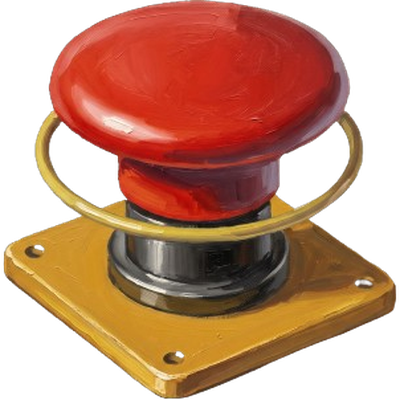
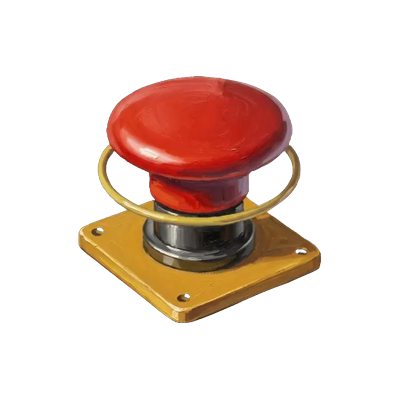
Hero: уменьшить кнопку стопа и убрать рывок при смене кадра.
E-stop ~38% кадра как огнетушитель; promote без пересчёта tip и с паузой в 2 кадра.

diff --git a/app-restructure.js b/app-restructure.js
@@ -44,12 +44,13 @@ window.addEventListener('resize', () => {
   ];
   const curr = el.querySelector('.hero__safety-curr');
   const next = el.querySelector('.hero__safety-next');
-  const DUR = 1400;
+  const DUR = 1500;
   let i = 0;
   let raf = 0;
   let t0 = 0;
   let running = false;
   let ready = false;
+  let advancing = false;
 
   const abs = (src) => new URL(src, document.baseURI).href;
 
@@ -65,32 +66,51 @@ window.addEventListener('resize', () => {
   function setPair(from) {
     const a = items[from];
     const b = items[(from + 1) % items.length];
-    if (curr.getAttribute('src') !== a) curr.src = a;
-    if (next.getAttribute('src') !== b) next.src = b;
-    /* относительные url — как у img, без CORS-глюков маски на Pages */
+    curr.src = a;
+    next.src = b;
     el.style.setProperty('--mask-curr', 'url("' + a + '")');
     el.style.setProperty('--mask-next', 'url("' + b + '")');
   }
 
+  /* Продвижение без вспышки: curr ← то что уже на next, потом только новый next */
+  function promote() {
+    i = (i + 1) % items.length;
+    const a = items[i];
+    const b = items[(i + 1) % items.length];
+    const nextMask = el.style.getPropertyValue('--mask-next') || ('url("' + a + '")');
+
+    el.style.setProperty('--p', '0');
+    curr.src = a;
+    el.style.setProperty('--mask-curr', nextMask);
+    next.src = b;
+    el.style.setProperty('--mask-next', 'url("' + b + '")');
+  }
+
   function tick(now) {
-    if (!running) return;
+    if (!running || advancing) return;
     const p = Math.min(1, (now - t0) / DUR);
-    el.style.setProperty('--p', p.toFixed(4));
+    el.style.setProperty('--p', String(p));
     if (p < 1) {
       raf = requestAnimationFrame(tick);
       return;
     }
-    i = (i + 1) % items.length;
-    el.style.setProperty('--p', '0');
-    setPair(i);
-    layoutTapeTip(el);
-    t0 = performance.now();
-    raf = requestAnimationFrame(tick);
+
+    /* конец проезда: зафиксировать кадр, сменить пару, через 2 кадра снова ехать */
+    advancing = true;
+    promote();
+    raf = requestAnimationFrame(() => {
+      raf = requestAnimationFrame((t) => {
+        advancing = false;
+        t0 = t;
+        raf = requestAnimationFrame(tick);
+      });
+    });
   }
 
   function start() {
     if (running || !ready || document.hidden) return;
     running = true;
+    advancing = false;
     el.classList.remove('sweeping', 'shot--revealed');
     layoutTapeTip(el);
     setPair(i);
@@ -101,6 +121,7 @@ window.addEventListener('resize', () => {
 
   function stop() {
     running = false;
+    advancing = false;
     if (raf) cancelAnimationFrame(raf);
     raf = 0;
   }
@@ -112,8 +133,11 @@ window.addEventListener('resize', () => {
     } else if (ready) start();
   });
 
+  let tipTimer = 0;
   window.addEventListener('resize', () => {
-    if (ready) layoutTapeTip(el);
+    if (!ready) return;
+    clearTimeout(tipTimer);
+    tipTimer = setTimeout(() => layoutTapeTip(el), 120);
   });
 
   Promise.all([load(items[0]), load(items[1])]).then(() => {

diff --git a/index-restructure.html b/index-restructure.html
@@ -8,7 +8,7 @@
 <link rel="preconnect" href="https://fonts.gstatic.com" crossorigin>
 <link href="https://fonts.googleapis.com/css2?family=Golos+Text:wght@400;500;700;900&display=swap&subset=cyrillic,latin" rel="stylesheet">
 <link rel="stylesheet" href="style-v2.css">
-<link rel="stylesheet" href="style-restructure.css?v=21">
+<link rel="stylesheet" href="style-restructure.css?v=22">
 </head>
 <body>
 
@@ -363,6 +363,6 @@
   </div>
 </footer>
 
-<script src="app-restructure.js?v=21"></script>
+<script src="app-restructure.js?v=22"></script>
 </body>
 </html>
